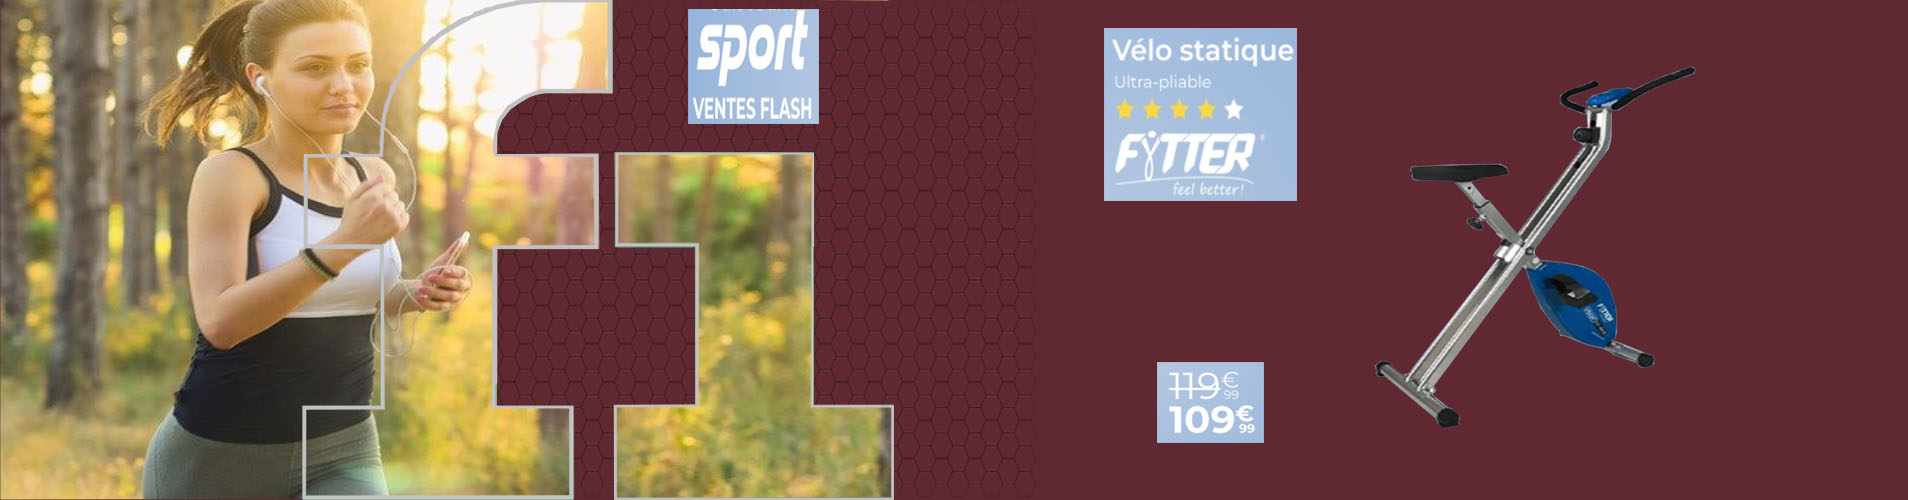
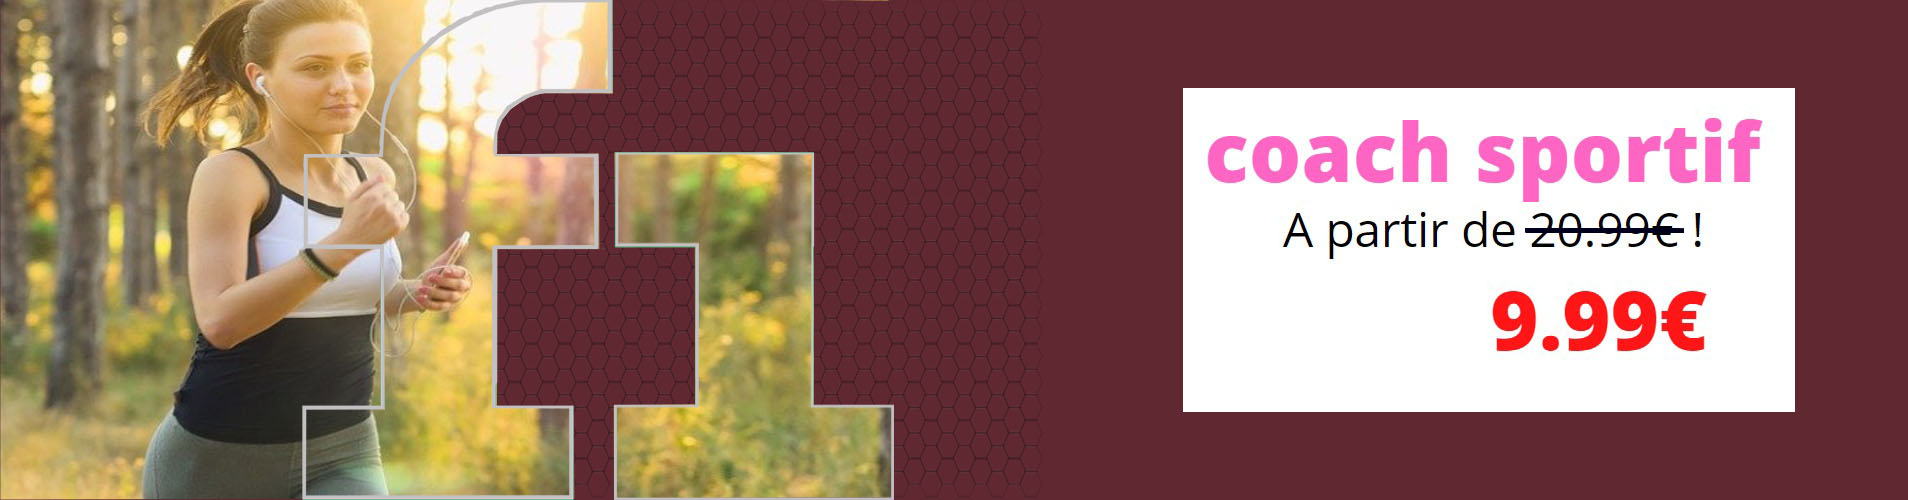
commit caroussel

Changed region(s): [[0.5566, 0.03, 0.9586, 0.9], [0.3401, 0.0, 0.4329, 0.27]]

diff --git a/public/assets/js/script.js b/public/assets/js/script.js
@@ -1,0 +1,249 @@
+// Get all images and texts, get the `canvas` element, and save slider length
+var sliderCanvas = document.querySelector(".pieces-slider__canvas");
+var imagesEl = [].slice.call(
+  document.querySelectorAll(".pieces-slider__image")
+);
+var textEl = [].slice.call(document.querySelectorAll(".pieces-slider__text"));
+var slidesLength = imagesEl.length;
+
+// Define indexes related variables, as we will use indexes to reference items
+var currentIndex = 0,
+  currentImageIndex,
+  currentTextIndex,
+  currentNumberIndex;
+var textIndexes = [];
+var numberIndexes = [];
+
+// Update current indexes for image, text and number
+function updateIndexes() {
+  currentImageIndex = currentIndex * 3;
+  currentTextIndex = currentImageIndex + 1;
+  currentNumberIndex = currentImageIndex + 2;
+}
+updateIndexes();
+
+// Options for images
+var imageOptions = {
+  angle: 45, // rotate item pieces 45deg
+  extraSpacing: { extraX: 100, extraY: 200 }, // this extra spacing is needed to cover all the item, because angle != 0
+  piecesWidth: function () {
+    return Pieces.random(50, 200);
+  }, // every piece will have a random width between 50px and 200px
+  ty: function () {
+    return Pieces.random(-400, 400);
+  }, // every piece will be translated in the Y axis a random distance between -400px and 400px
+};
+
+// Options for texts
+var textOptions = {
+  color: "white",
+  backgroundColor: "#0066CC",
+  fontSize: function () {
+    return windowWidth > 720 ? 50 : 30;
+  },
+  padding: "15 20 10 20",
+  angle: -45,
+  extraSpacing: { extraX: 0, extraY: 300 },
+  piecesWidth: function () {
+    return Pieces.random(50, 200);
+  },
+  ty: function () {
+    return Pieces.random(-200, 200);
+  },
+  translate: function () {
+    if (windowWidth > 1120) return { translateX: 200, translateY: 200 };
+    if (windowWidth > 720) return { translateX: 0, translateY: 200 };
+    return { translateX: 0, translateY: 100 };
+  },
+};
+
+// Options for numbers
+var numberOptions = {
+  color: "white",
+  backgroundColor: "#0066CC",
+  backgroundRadius: 300,
+  fontSize: function () {
+    return windowWidth > 720 ? 100 : 50;
+  },
+  padding: function () {
+    return windowWidth > 720 ? "18 35 10 38" : "18 25 10 28";
+  },
+  angle: 0,
+  piecesSpacing: 2,
+  extraSpacing: { extraX: 10, extraY: 10 },
+  piecesWidth: 35,
+  ty: function () {
+    return Pieces.random(-200, 200);
+  },
+  translate: function () {
+    if (windowWidth > 1120) return { translateX: -340, translateY: -180 };
+    if (windowWidth > 720) return { translateX: -240, translateY: -180 };
+    return { translateX: -140, translateY: -100 };
+  },
+};
+
+// Build the array of items to draw using Pieces
+var items = [];
+var imagesReady = 0;
+for (var i = 0; i < slidesLength; i++) {
+  // Wait for all images to load before initializing the slider and event listeners
+  var slideImage = new Image();
+  slideImage.onload = function () {
+    if (++imagesReady == slidesLength) {
+      initSlider();
+      initEvents();
+    }
+  };
+  // Push all elements for each slide with the corresponding options
+  items.push({ type: "image", value: imagesEl[i], options: imageOptions });
+  items.push({
+    type: "text",
+    value: textEl[i].innerText,
+    options: textOptions,
+  });
+  items.push({ type: "text", value: i + 1, options: numberOptions });
+  // Save indexes
+  textIndexes.push(i * 3 + 1);
+  numberIndexes.push(i * 3 + 2);
+  // Set image src
+  slideImage.src = imagesEl[i].src;
+}
+
+// Save the new Pieces instance
+piecesSlider = new Pieces({
+  canvas: sliderCanvas, // CSS selector to get the canvas
+  items: items, // the Array of items we've built before
+  x: "centerAll", // center all items in the X axis
+  y: "centerAll", // center all items in the Y axis
+  piecesSpacing: 1, // default spacing between pieces
+  fontFamily: ["'Helvetica Neue', sans-serif"],
+  animation: {
+    // animation options to use in any operation
+    duration: function () {
+      return Pieces.random(1000, 2000);
+    },
+    easing: "easeOutQuint",
+  },
+  debug: false, // set `debug: true` to enable debug mode
+});
+
+// Animate all numbers to rotate clockwise indefinitely
+piecesSlider.animateItems({
+  items: numberIndexes,
+  duration: 20000,
+  angle: 360,
+  loop: true,
+});
+
+// Show current items: image, text and number
+showItems();
+
+// Show current items: image, text and number
+function showItems() {
+  // Show image pieces
+  piecesSlider.showPieces({
+    items: currentImageIndex,
+    ignore: ["tx"],
+    singly: true,
+    update: (anim) => {
+      // Stop the pieces animation at 60%, and run a new indefinitely animation of `ty` for each piece
+      if (anim.progress > 60) {
+        var piece = anim.animatables[0].target;
+        var ty = piece.ty;
+        anime.remove(piece);
+        anime({
+          targets: piece,
+          ty:
+            piece.h_ty < 300
+              ? [
+                  { value: ty + 10, duration: 1000 },
+                  { value: ty - 10, duration: 2000 },
+                  { value: ty, duration: 1000 },
+                ]
+              : [
+                  { value: ty - 10, duration: 1000 },
+                  { value: ty + 10, duration: 2000 },
+                  { value: ty, duration: 1000 },
+                ],
+          duration: 2000,
+          easing: "linear",
+          loop: true,
+        });
+      }
+    },
+  });
+  // Show pieces for text and number, using alternate `ty` values
+  piecesSlider.showPieces({ items: currentTextIndex });
+  piecesSlider.showPieces({
+    items: currentNumberIndex,
+    ty: function (p, i) {
+      return p.s_ty - [-3, 3][i % 2];
+    },
+  });
+}
+
+// Hide current items: image, text and number
+function hideItems() {
+  piecesSlider.hidePieces({
+    items: [currentImageIndex, currentTextIndex, currentNumberIndex],
+  });
+}
+
+// Select the prev slide: hide current items, update indexes, and show the new current item
+function prevItem() {
+  hideItems();
+  currentIndex = currentIndex > 0 ? currentIndex - 1 : slidesLength - 1;
+  updateIndexes();
+  showItems();
+}
+
+// Select the next slide: hide current items, update indexes, and show the new current item
+function nextItem() {
+  hideItems();
+  currentIndex = currentIndex < slidesLength - 1 ? currentIndex + 1 : 0;
+  updateIndexes();
+  showItems();
+}
+
+// Select prev or next slide using buttons
+prevButtonEl.addEventListener("click", prevSlide);
+nextButtonEl.addEventListener("click", nextSlide);
+
+// Select prev or next slide using arrow keys
+document.addEventListener("keydown", function (e) {
+  if (e.keyCode == 37) {
+    // left
+    prevSlide();
+  } else if (e.keyCode == 39) {
+    // right
+    nextSlide();
+  }
+});
+
+// Handle `resize` event
+window.addEventListener("resize", resizeStart);
+
+var initial = true,
+  hideTimer,
+  resizeTimer;
+
+// User starts resizing, so wait 300 ms before reinitialize the slider
+function resizeStart() {
+  if (initial) {
+    initial = false;
+    if (hideTimer) clearTimeout(hideTimer);
+    sliderCanvas.classList.add("pieces-slider__canvas--hidden");
+  }
+  if (resizeTimer) clearTimeout(resizeTimer);
+  resizeTimer = setTimeout(resizeEnd, 300);
+}
+
+// User ends resizing, then reinitialize the slider
+function resizeEnd() {
+  initial = true;
+  windowWidth = window.innerWidth;
+  initSlider();
+  hideTimer = setTimeout(() => {
+    sliderCanvas.classList.remove("pieces-slider__canvas--hidden");
+  }, 500);
+}

diff --git a/public/assets/css/style.css b/public/assets/css/style.css
@@ -138,9 +138,117 @@ header nav .box-nav .liste-nav li a {
   background-color: var(--white);
   padding: 0.8rem;
 }
-
+/*=================
+  jean-guy
+==================*/
 /*caroussel*/
 .carousel {
   display: inline-block;
   padding-top: 100px;
 }
+.carousel-item {
+  height: -100px;
+}
+
+/*bouton*/
+.container {
+  width: auto;
+}
+
+/*slider*/
+.pieces-slider {
+  position: relative;
+  text-align: center;
+  padding: 8rem 0;
+}
+
+.js .pieces-slider {
+  padding: 0;
+}
+
+/* Make all slides absolutes and hide them */
+.js .pieces-slider__slide {
+  position: absolute;
+  right: 100%;
+}
+
+/* Define image dimensions and also hide them */
+.pieces-slider__image {
+  max-width: 600px;
+  max-height: 400px;
+}
+
+.js .pieces-slider__image {
+  visibility: hidden;
+}
+
+/* Hide the titles */
+.js .pieces-slider__text {
+  text-indent: -9999px;
+}
+
+/* Canvas with viewport width and height */
+.js .pieces-slider__canvas {
+  position: relative;
+  width: 100vw;
+  height: 100vh;
+  transition: 0.2s opacity;
+}
+
+/* Class for when we resize */
+.pieces-slider__canvas--hidden {
+  opacity: 0;
+  transition-duration: 0.3s;
+}
+
+/* Navigation buttons */
+.pieces-slider__button {
+  position: absolute;
+  left: 0;
+  top: 50%;
+  width: 100px;
+  height: 100px;
+  margin: -25px 0 0 0;
+  background-color: #5104ab;
+  color: #fff;
+  font-family: inherit;
+  font-weight: bold;
+  border: none;
+  cursor: pointer;
+  transition: 0.1s background-color;
+}
+
+.pieces-slider__button:hover {
+  background: #5f3abf;
+}
+
+.pieces-slider__button--next {
+  left: auto;
+  right: 0;
+}
+
+/* Hide the buttons when no JS */
+.no-js .pieces-slider__button {
+  display: none;
+}
+
+/* Media queries with styles for smaller screens */
+@media screen and (max-width: 720px) {
+  .pieces-slider__image {
+    max-width: 300px;
+  }
+}
+
+@media screen and (max-width: 55em) {
+  .pieces-slider__canvas {
+    width: 100vw;
+    height: 100vw;
+  }
+  .pieces-slider__button {
+    width: 60px;
+    height: 60px;
+  }
+}
+/*=================
+ fin jean-guy
+==================*/
